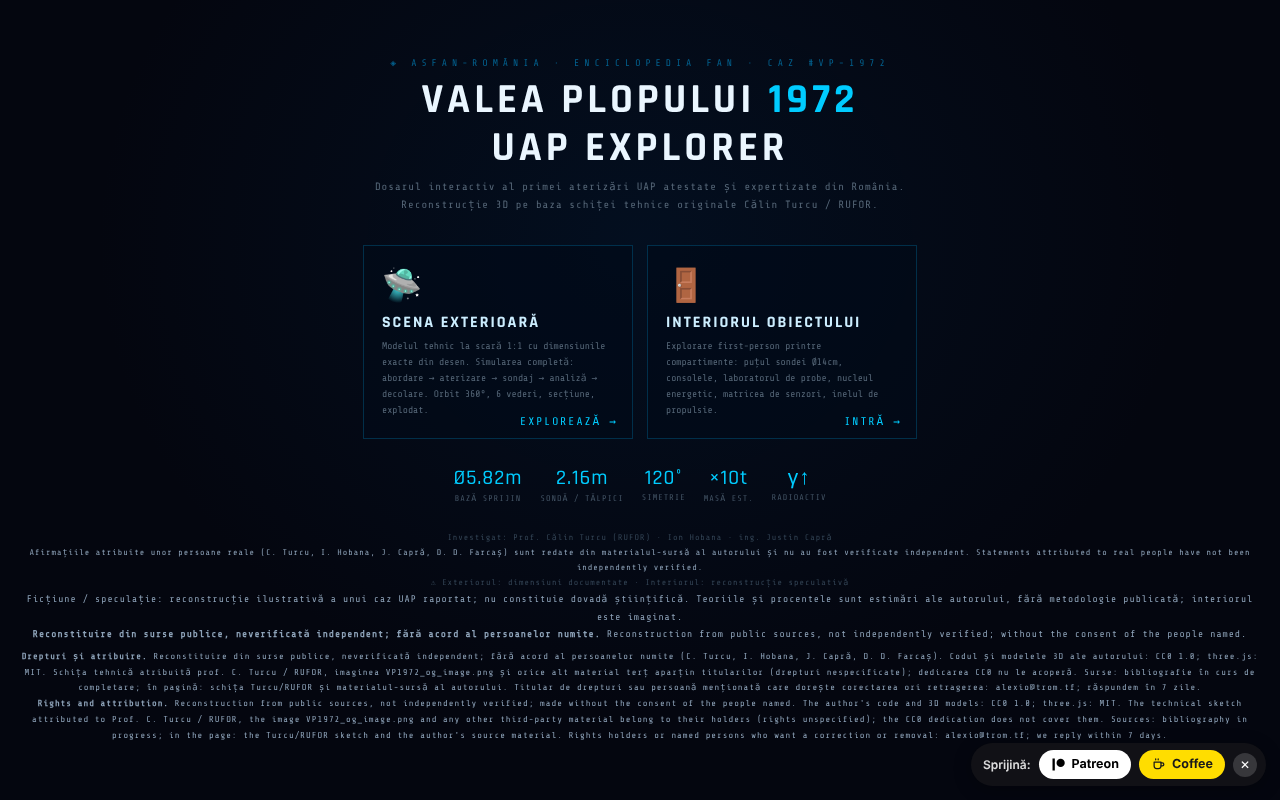
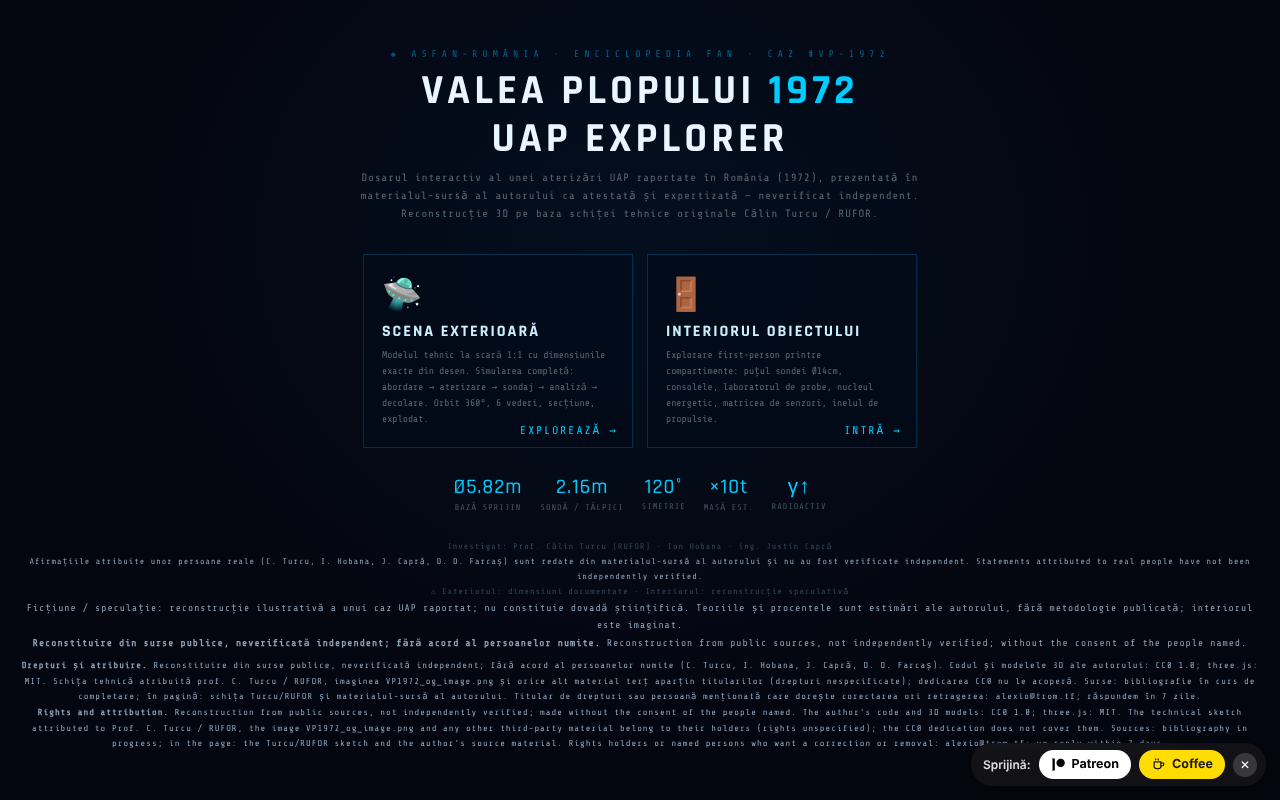
Runda 5 (11 octombrie 2026): reparații, accesibilitate, date și conținut actualizate
Claude-Session: https://claude.ai/code/session_01D2sCEb3hy3nutYexhUfQFs

diff --git a/index.html b/index.html
@@ -44,14 +44,14 @@
 <meta name="apple-mobile-web-app-status-bar-style" content="black-translucent">
 <meta name="mobile-web-app-capable" content="yes">
 <title>Valea Plopului 1972 · UAP Explorer | ASFAN</title>
-<meta name="description" content="Dosarul 3D interactiv al primei aterizări UAP expertizate din România. Model tehnic la scară 1:1, simulare aterizare, explorare interior, tururi ghidate, export video.">
+<meta name="description" content="Dosarul 3D interactiv al unei aterizări UAP raportate în România (1972) — ficțiune/speculație, neverificat independent. Model tehnic la scară 1:1, simulare aterizare, explorare interior, tururi ghidate, export video.">
 <!-- ── Social preview (WhatsApp/Telegram/Facebook) ──
      IMPORTANT: preview-ul apare doar când fișierul e servit pe un URL public.
      Urcă VP1972_og_image.png în ACEEAȘI cale și ajustează URL-urile absolute de mai jos. -->
 <meta property="og:type" content="website">
 <meta property="og:site_name" content="ASFAN-România · Enciclopedia FAN">
 <meta property="og:title" content="Valea Plopului 1972 · UAP Explorer">
-<meta property="og:description" content="Prima aterizare UAP expertizată din România, reconstruită 3D: model la scară 1:1, simularea aterizării, explorare în interior, tururi ghidate, export video MP4.">
+<meta property="og:description" content="O aterizare UAP raportată în România (1972), reconstruită 3D (ficțiune/speculație): model la scară 1:1, simularea aterizării, explorare în interior, tururi ghidate, export video MP4.">
 <meta property="og:url" content="https://alexio.tf/vp1972/">
 <meta property="og:image" content="https://alexio.tf/vp1972/VP1972_og_image.png">
 <meta property="og:image:width" content="1200">
@@ -218,6 +218,7 @@ body.m-int #bpanel{top:calc(var(--tbh) + 8px)}
   border:1px solid rgba(0,220,255,.3);border-left:3px solid #0cf;
   padding:10px 15px;opacity:0;transition:all .25s;pointer-events:none}
 #hpanel.show{opacity:1;transform:translateX(-50%) translateY(0)}
+#hpanel h3:empty{display:none}
 #hpanel h3{font-size:.7em;letter-spacing:2px;color:#0df;margin-bottom:4px}
 #hpanel p{font-size:.59em;color:#789;line-height:1.6}
 #hpanel p b{color:#9bc}
@@ -362,6 +363,7 @@ body.m-int #simbar,body.m-int #viewbtns,body.m-int #status{display:none}
 </style>
 </head>
 <body class="m-menu">
+<main id="app">
 <canvas id="c" role="application" aria-label="Scenă 3D interactivă Valea Plopului 1972. Apasă H pentru lista completă de comenzi."></canvas>
 <div id="fade" aria-hidden="true"></div>
 
@@ -369,7 +371,7 @@ body.m-int #simbar,body.m-int #viewbtns,body.m-int #status{display:none}
 <div id="menu">
   <div class="m-cat">◈ ASFAN-România · Enciclopedia FAN · Caz #VP-1972</div>
   <h1>VALEA PLOPULUI <span>1972</span><br>UAP EXPLORER</h1>
-  <div class="m-sub">Dosarul interactiv al primei aterizări UAP atestate și expertizate din România.
+  <div class="m-sub">Dosarul interactiv al unei aterizări UAP raportate în România (1972), prezentată în materialul-sursă al autorului ca atestată și expertizată — neverificat independent.
   Reconstrucție 3D pe baza schiței tehnice originale Călin Turcu / RUFOR.</div>
 
   <div class="m-cards">
@@ -441,12 +443,12 @@ body.m-int #simbar,body.m-int #viewbtns,body.m-int #status{display:none}
 <div id="status">🖱 DRAG 360° · 🤏 PINCH ZOOM · ⌨ SPACE SIM · T TUR · H AJUTOR</div>
 
 <!-- ═══════════ DOSAR ═══════════ -->
-<div id="dosar" role="complementary" aria-label="Dosarul cazului Valea Plopului">
+<div id="dosar" role="region" aria-label="Dosarul cazului Valea Plopului">
   <div id="dosar-tabs" role="tablist" aria-label="Secțiunile dosarului">
     <button class="dtab on" id="dt0" role="tab" aria-selected="true" aria-controls="dp0" onclick="dosarTab(0)">📐 DATE TEHNICE</button>
     <button class="dtab" id="dt1" role="tab" aria-selected="false" aria-controls="dp1" onclick="dosarTab(1)">🔬 ANALIZĂ & TEORII</button>
   </div>
-  <div id="dosar-body">
+  <div id="dosar-body" tabindex="0">
     <div class="dpage on" id="dp0">
       <div class="sec">
         <div class="sec-title">▸ Dimensiuni confirmate din desen</div>
@@ -527,13 +529,13 @@ body.m-int #simbar,body.m-int #viewbtns,body.m-int #status{display:none}
 <div id="bpanel">
   <div id="binner" role="group" aria-label="Luminozitate și spectru">
     <div class="brow"><label>🔆 EXPUNERE <span class="bv" id="bv0">1.0</span></label>
-      <input type="range" id="sl0" min="20" max="300" value="100" oninput="appB()"></div>
+      <input type="range" id="sl0" aria-label="Expunere" min="20" max="300" value="100" oninput="appB()"></div>
     <div class="brow"><label>💡 AMBIENT <span class="bv" id="bv1">1.0</span></label>
-      <input type="range" id="sl1" min="0" max="250" value="100" oninput="appB()"></div>
+      <input type="range" id="sl1" aria-label="Ambient" min="0" max="250" value="100" oninput="appB()"></div>
     <div class="brow"><label>✨ GLOW/PANOURI <span class="bv" id="bv2">1.0</span></label>
-      <input type="range" id="sl2" min="0" max="300" value="100" oninput="appB()"></div>
+      <input type="range" id="sl2" aria-label="Glow panouri" min="0" max="300" value="100" oninput="appB()"></div>
     <div class="brow"><label>🌡 TEMP CULOARE <span class="bv" id="bv3">0</span></label>
-      <input type="range" id="sl3" min="-100" max="100" value="0" oninput="appB()"></div>
+      <input type="range" id="sl3" aria-label="Temperatură culoare" min="-100" max="100" value="0" oninput="appB()"></div>
   </div>
 </div>
 
@@ -548,13 +550,13 @@ body.m-int #simbar,body.m-int #viewbtns,body.m-int #status{display:none}
 <div id="recpanel" role="dialog" aria-label="Export video">
   <div class="rp-head">🎥 EXPORT VIDEO <button class="tour-b" onclick="recToggle()">✕</button></div>
   <div class="rp-row"><label>ORIENTARE</label>
-    <select id="rec-orient" onchange="recEstimate()">
+    <select id="rec-orient" onchange="recEstimate()" aria-label="Orientare video">
       <option value="h" selected>▭ Orizontal 16:9 (wide)</option>
       <option value="v">▯ Vertical 9:16 (Status/Stories)</option>
       <option value="s">□ Pătrat 1:1</option>
     </select></div>
   <div class="rp-row"><label>REZOLUȚIE</label>
-    <select id="rec-res" onchange="recEstimate()">
+    <select id="rec-res" onchange="recEstimate()" aria-label="Rezoluție video">
       <option value="720" selected>720p — recomandat WhatsApp</option>
       <option value="1080">1080p — calitate maximă</option>
       <option value="480">480p — fișier mic</option>
@@ -680,6 +682,7 @@ body.m-int #simbar,body.m-int #viewbtns,body.m-int #status{display:none}
   </div>
 </div>
 
+</main>
 <script>
 'use strict';
 // ════════════════════════════════════════════════════════════
@@ -1974,7 +1977,7 @@ function loop(ts){
 requestAnimationFrame(loop);
 </script>
 <!-- tf-donate: sprijin voluntar (Patreon + Buy Me a Coffee) — self-contained, fără resurse externe, fără JS -->
-<div id="tf-donate" aria-label="Sprijină autorul">
+<div id="tf-donate" role="complementary" aria-label="Sprijină autorul">
 <style>
 #tf-donate{position:fixed;right:14px;bottom:14px;z-index:2147483600;font-family:system-ui,-apple-system,"Segoe UI",Roboto,sans-serif;line-height:1}
 #tf-donate *{box-sizing:border-box}
@@ -1993,6 +1996,7 @@ requestAnimationFrame(loop);
 #tf-donate .tf-cb:checked ~ .tf-open{display:inline-flex}
 @media (max-width:560px){#tf-donate .tf-lbl{display:none}}
 @media print{#tf-donate{display:none}}
+body:not(.m-menu) #tf-donate{bottom:56px}   /* nu acoperă bara de vederi din scenă */
 </style>
 <input type="checkbox" id="tf-donate-cb" class="tf-cb" aria-hidden="true">
 <div class="tf-panel">

diff --git a/ValeaPlopului_Model3D_Tehnic.html b/ValeaPlopului_Model3D_Tehnic.html
@@ -147,7 +147,7 @@ body{background:#08090f;overflow:hidden;font-family:'Share Tech Mono','Courier N
 /* ── PANEL CONTENT ─────────────────────────────────────────── */
 .hdr{border-bottom:1px solid rgba(0,180,255,.18);padding-bottom:10px;margin-bottom:14px}
 .hdr .cat{font-size:.52em;letter-spacing:3px;color:rgba(0,180,255,.6);text-transform:uppercase}
-.hdr h1{font-family:'Rajdhani',sans-serif;font-size:1.05em;font-weight:700;
+.hdr h1,.hdr h2{font-family:'Rajdhani',sans-serif;font-size:1.05em;font-weight:700;
   letter-spacing:2px;color:#e8f4ff;margin-top:3px;line-height:1.3}
 .hdr p{font-size:.58em;color:#345;margin-top:4px;letter-spacing:.5px}
 .sec{margin-bottom:16px}
@@ -184,7 +184,7 @@ body{background:#08090f;overflow:hidden;font-family:'Share Tech Mono','Courier N
 @media (max-width:1100px) and (min-width:700px){
   #panel-l{width:240px;padding:14px 12px 80px}
   #panel-r{width:220px;padding:14px 12px 80px}
-  .hdr h1{font-size:.95em}
+  .hdr h1,.hdr h2{font-size:.95em}
   .vbtn{font-size:.56em;padding:9px 7px}
 }
 
@@ -291,6 +291,7 @@ body{background:#08090f;overflow:hidden;font-family:'Share Tech Mono','Courier N
 </style>
 </head>
 <body>
+<main id="app">
 <canvas id="c"></canvas>
 
 <!-- OVERLAY mobil (close drawere la click) -->
@@ -418,8 +419,8 @@ body{background:#08090f;overflow:hidden;font-family:'Share Tech Mono','Courier N
 <div id="panel-r" class="panel" tabindex="0" role="region" aria-label="Analiză și teorii">
   <div class="hdr">
     <div class="cat">◈ Analiză funcțională</div>
-    <h1>IPOTEZE SCOP<br>& TEHNOLOGIE</h1>
-    <p>Sinteză date publice disponibile<br>10 iunie 2026 · ASFAN România</p>
+    <h2>IPOTEZE SCOP<br>& TEHNOLOGIE</h2>
+    <p>Sinteză date publice disponibile<br>10 iunie 2026 · actualizat 11 octombrie 2026 · ASFAN România</p>
     <p style="color:#9fb4c8;font-size:.85em;margin-top:6px">Ficțiune / speculație: reconstrucție ilustrativă a unui caz UAP raportat; nu constituie dovadă științifică. Teoriile și procentele sunt estimări ale autorului, fără metodologie publicată; interiorul este imaginat.</p>
   </div>
 
@@ -498,6 +499,7 @@ body{background:#08090f;overflow:hidden;font-family:'Share Tech Mono','Courier N
 
 
 
+</main>
 <script>
 // ═══════════════════════════════════════════════════════════
 //  RENDERER

diff --git a/ValeaPlopului_Interior3D.html b/ValeaPlopului_Interior3D.html
@@ -80,7 +80,8 @@ body{background:#020308;overflow:hidden;font-family:'Share Tech Mono',monospace;
   background:rgba(2,8,18,.94);border:1px solid rgba(0,220,255,.3);border-left:3px solid #0cf;
   padding:10px 16px;opacity:0;transition:all .25s;pointer-events:none}
 #hpanel.show{opacity:1;transform:translateX(-50%) translateY(0)}
-#hpanel h3{font-size:.72em;letter-spacing:2px;color:#0df;margin-bottom:4px}
+#hpanel h2:empty{display:none}
+#hpanel h2{font-size:.72em;letter-spacing:2px;color:#0df;margin-bottom:4px}
 #hpanel p{font-size:.6em;color:#789;line-height:1.6}
 #hpanel p b{color:#9bc}
 
@@ -123,6 +124,7 @@ body{background:#020308;overflow:hidden;font-family:'Share Tech Mono',monospace;
 </style>
 </head>
 <body>
+<main id="app">
 <canvas id="c"></canvas>
 
 <div id="hdr">
@@ -138,7 +140,7 @@ body{background:#020308;overflow:hidden;font-family:'Share Tech Mono',monospace;
 <div id="hint">CLICK pe scenă pentru control · W A S D mișcare · MOUSE privire · SHIFT alergare · ESC eliberare</div>
 
 <div id="hpanel">
-  <h3 id="hp-title"></h3>
+  <h2 id="hp-title"></h2>
   <p id="hp-desc"></p>
 </div>
 
@@ -148,17 +150,18 @@ body{background:#020308;overflow:hidden;font-family:'Share Tech Mono',monospace;
   <div id="btog" onclick="document.getElementById('binn').classList.toggle('show')">🔆</div>
   <div id="binn">
     <div class="brow"><label>EXPUNERE <span class="bv" id="bv1">1.0</span></label>
-      <input type="range" id="sl1" min="20" max="300" value="100" oninput="appB()"></div>
+      <input type="range" id="sl1" aria-label="Expunere" min="20" max="300" value="100" oninput="appB()"></div>
     <div class="brow"><label>AMBIENT <span class="bv" id="bv2">0.6</span></label>
-      <input type="range" id="sl2" min="0" max="250" value="60" oninput="appB()"></div>
+      <input type="range" id="sl2" aria-label="Ambient" min="0" max="250" value="60" oninput="appB()"></div>
     <div class="brow"><label>PANOURI <span class="bv" id="bv3">1.0</span></label>
-      <input type="range" id="sl3" min="0" max="300" value="100" oninput="appB()"></div>
+      <input type="range" id="sl3" aria-label="Panouri" min="0" max="300" value="100" oninput="appB()"></div>
   </div>
 </div>
 
 <div id="joy-base"></div>
 <div id="joy-stick"></div>
 
+</main>
 <script>
 // ════════════════════════════════════════════════════════════
 //  SETUP

diff --git a/README.md b/README.md
@@ -37,3 +37,10 @@ Fără cereri de rețea (CSP cu `connect-src 'self'`, verificat: 0 cereri extern
 CC0 1.0 (domeniu public) pentru codul autorului, conform antetelor; three.js este MIT (notă păstrată în fișiere). Vezi `LICENSE`.
 
 Audit: 2026-10-10 (rundă 3: drepturi și atribuire)
+
+## Istoric / Changelog
+Ultima actualizare: 11 octombrie 2026 (fără număr de versiune în aplicație).
+- Formularea din meniu și din metadate („prima aterizare UAP atestată și expertizată”) a fost reformulată ca „aterizare UAP raportată … prezentată în materialul-sursă al autorului ca atestată și expertizată — neverificat independent”, în acord cu nota de ficțiune/speculație (conținutul despre persoane numite și drepturile nu au fost modificate).
+- Blocul de sprijin nu mai acoperă bara de vederi din scenă; pe cele trei pagini conținutul este în `<main>`, titlurile au ordine corectă, controalele (selectoare, glisoare) au etichete; axe-core = 0 violări la 1280 și 360 px, în meniu, scena exterioară, interior și panourile deschise.
+- Rămân 52 de handlere inline (`onclick=` etc.) în `index.html` (CSP-ul permite scripturile inline); nu au fost eliminate pentru a evita regresii în aplicația 3D.
+- `ValeaPlopului_Model3D_Tehnic.html`: „Sinteză date publice” rămâne datată 10 iunie 2026, cu mențiunea „actualizat 11 octombrie 2026”.
